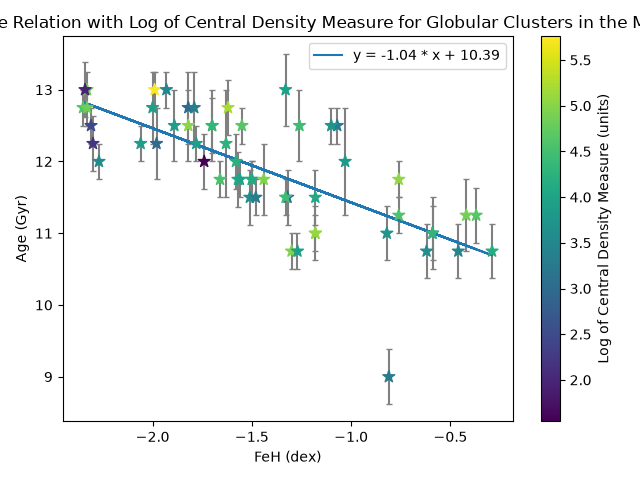
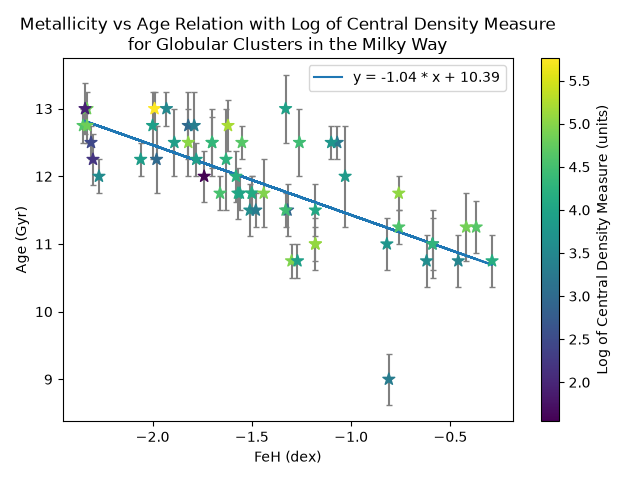
Fixed plots 5, 6, 7

diff --git a/src/hbtype.py b/src/hbtype.py
@@ -28,12 +28,11 @@ plt.plot(
 )
 
 # Add colourbar for HBType values 
-# hbtype = plt.scatter(
-#     vandenBergData["FeH"], vandenBergData["Age"],
-#     c = vandenBergData["HBtype"], cmap = "RdBu", marker = '*', s = 80, zorder = 3
-# )
-# plt.colorbar(hbtype, label="HB type")
-
+hbtype = plt.scatter(
+    vandenBergData["FeH"], vandenBergData["Age"],
+    c = vandenBergData["HBtype"], cmap = "RdBu", marker = '*', s = 80, zorder = 3
+)
+plt.colorbar(hbtype, label="HB type")
 
 # Add colourbar for R_G values 
 # rg = plt.scatter(
@@ -42,22 +41,21 @@ plt.plot(
 # )
 # plt.colorbar(rg, label="Galactocentric Radius (kpc)")
 
-# Add colourbar for R_G values 
-sigma0 = plt.scatter(
-    vandenBergData["FeH"], vandenBergData["Age"],
-    c = vandenBergData["log_sigma_0"], cmap = "viridis", marker = '*', s = 80, zorder = 3
-)
-plt.colorbar(sigma0, label="Log of Central Density Measure (units)")
+# Add colourbar for log_sigma_0 values
+# sigma0 = plt.scatter(
+#     vandenBergData["FeH"], vandenBergData["Age"],
+#     c = vandenBergData["log_sigma_0"], cmap = "viridis", marker = '*', s = 80, zorder = 3
+# )
+# plt.colorbar(sigma0, label="Log of Central Density Measure (units)")
 
 # Add labels and title
 plt.xlabel("FeH (dex)")
 plt.ylabel("Age (Gyr)")
-plt.title("Metallicity vs Age Relation with Log of Central Density Measure for Globular Clusters in the Milky Way")
-
+plt.title("Metallicity vs Age Relation with HB type\nfor Globular Clusters in the Milky Way")
 # Add legend
 plt.legend()
 
 # Show and save
 plt.tight_layout()
+plt.savefig("Age_vs_Metallicity_Plot_5.png")
 plt.show()
-plt.savefig("Age_vs_Metallicity_Plot_7.png")
